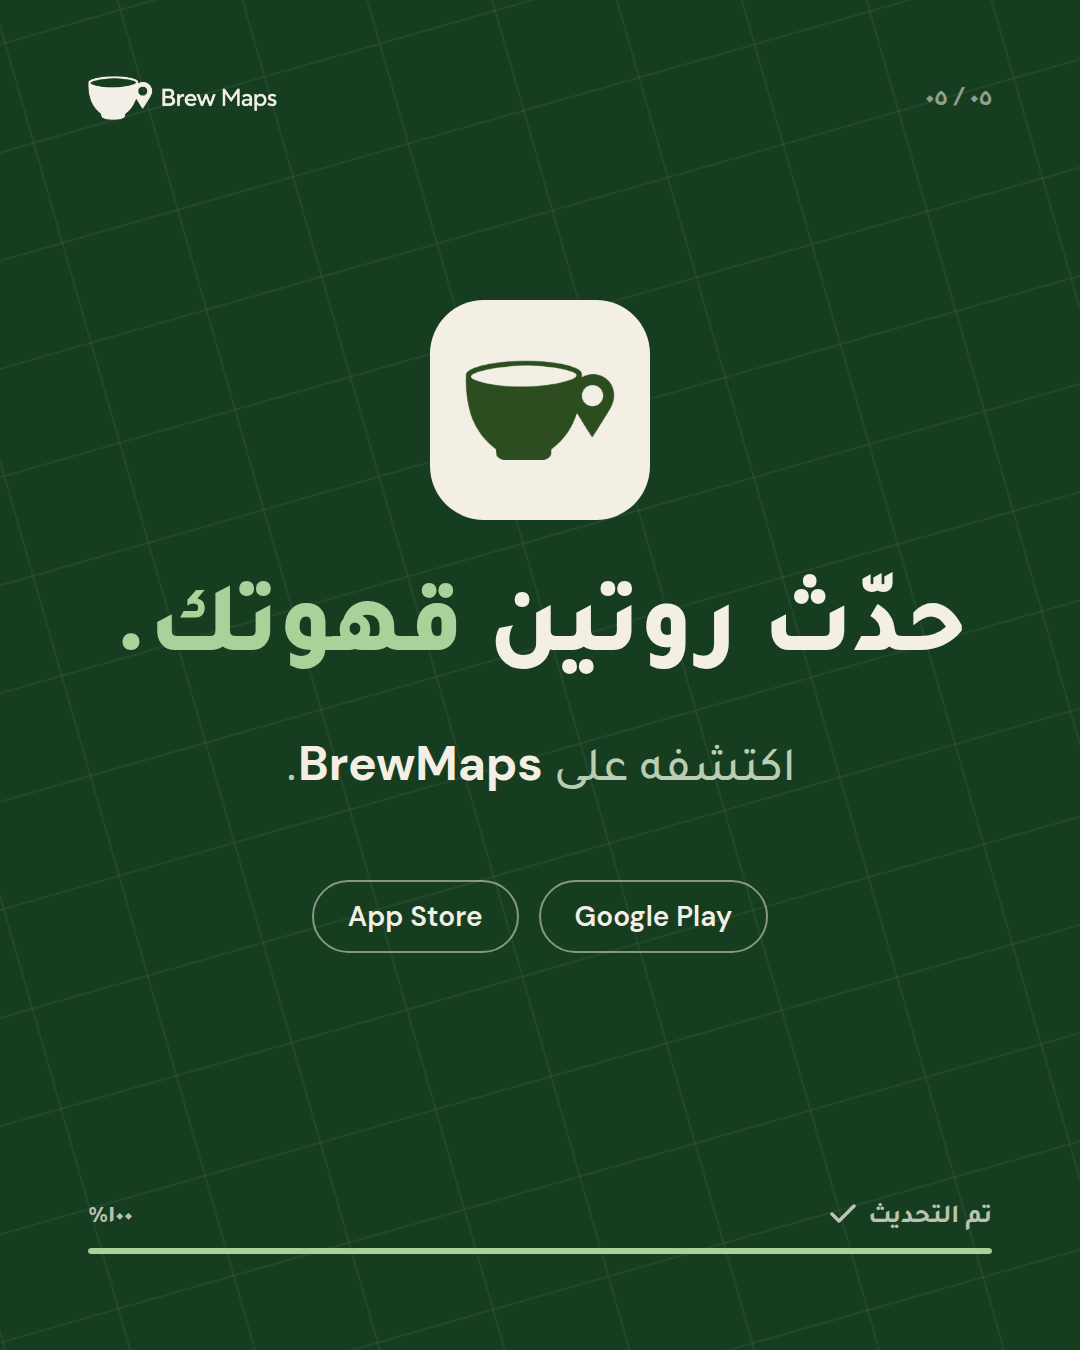
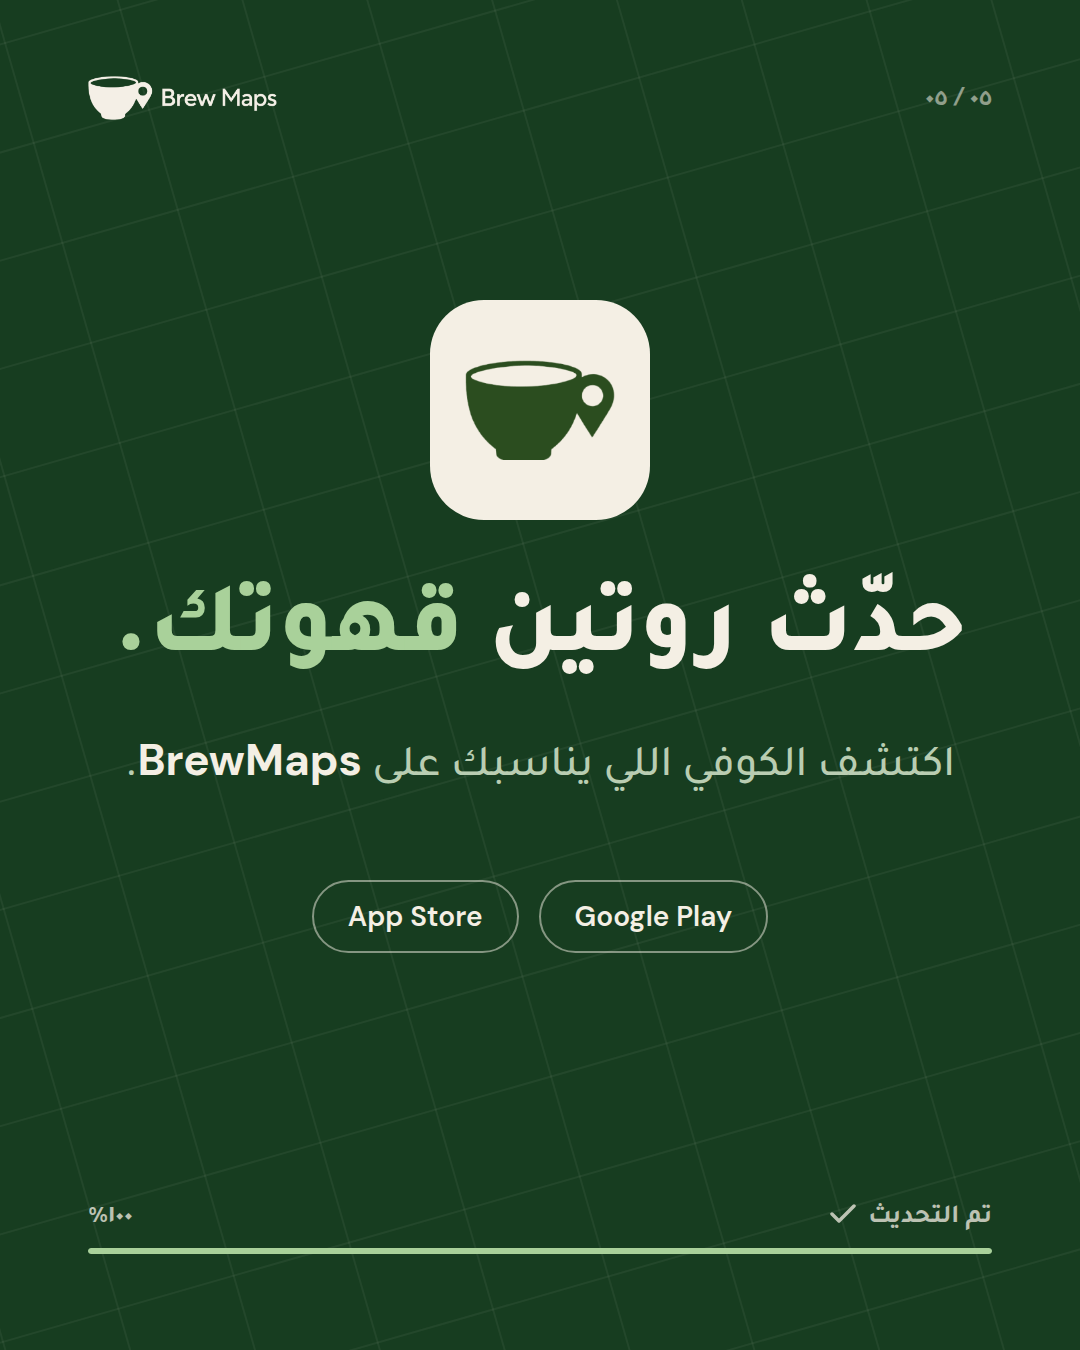
روتين قهوتك: shorter slide 4 headline, personalized slide 5 line
Claude-Session: https://claude.ai/code/session_01UCKVHF8Bj15Neb29ir5cAN

Changed region(s): [[0.1222, 0.5289, 0.8861, 0.5911]]

diff --git a/marketing/posts/coffee-routine-update/slides.html b/marketing/posts/coffee-routine-update/slides.html
@@ -99,9 +99,9 @@ const S = {
       </div>`,
 
   // 4 · PAYOFF: closer than you think
-  4: `<div class="h" style="top:190px; font-size:68px; white-space:nowrap;">يمكن كوفيك المفضل الجاي…<br><span class="em">أقرب مما تتوقع.</span></div>
-      <div class="sub" style="top:368px; font-size:40px;"><span class="latin" style="font-weight:700">BrewMaps</span> يلقى لك الكوفي اللي <span class="em" style="font-weight:800">يناسب ذوقك.</span></div>
-      <svg style="position:absolute; top:490px; left:var(--M);" width="904" height="600" viewBox="0 0 904 600">
+  4: `<div class="h" style="top:190px; font-size:84px; white-space:nowrap;">يمكن كوفيك المفضل…<br><span class="em">أقرب مما تتوقع.</span></div>
+      <div class="sub" style="top:398px; font-size:40px;"><span class="latin" style="font-weight:700">BrewMaps</span> يلقى لك الكوفي اللي <span class="em" style="font-weight:800">يناسب ذوقك.</span></div>
+      <svg style="position:absolute; top:510px; left:var(--M);" width="904" height="600" viewBox="0 0 904 600">
         <defs><clipPath id="c4"><rect width="904" height="600" rx="36"/></clipPath></defs>
         <g clip-path="url(#c4)">
           <rect width="904" height="600" fill="#EFEEE7"/>
@@ -120,7 +120,7 @@ const S = {
           </g>
         </g>
       </svg>
-      <div style="position:absolute; top:690px; left:130px; width:380px; background:#fff; border:1.5px solid var(--line); border-radius:26px; padding:20px 22px 18px;">
+      <div style="position:absolute; top:710px; left:130px; width:380px; background:#fff; border:1.5px solid var(--line); border-radius:26px; padding:20px 22px 18px;">
       <div style="display:flex; gap:18px; align-items:center; direction:ltr; font-family:'DM Sans';">
         <span style="width:74px; height:74px; border-radius:18px; background:var(--sage); display:grid; place-items:center; flex:none;">
           <svg width="44" height="44" viewBox="-32 -32 64 64"><path d="M-24 -18 H24 L6 10 H-6 Z" fill="none" stroke="#173D20" stroke-width="4.5" stroke-linejoin="round"/><path d="M-16 20 H16" stroke="#173D20" stroke-width="4.5" stroke-linecap="round"/><path d="M-6 10 V20 M6 10 V20" stroke="#173D20" stroke-width="4.5"/></svg></span>
@@ -134,7 +134,7 @@ const S = {
   5: `<div style="position:absolute; top:300px; left:0; right:0; display:flex; justify-content:center;">
         <span style="width:220px; height:220px; border-radius:54px; background:var(--cream); display:grid; place-items:center;"><img src="img/mark-green.png" style="width:150px"></span></div>
       <div class="h" style="top:580px; text-align:center; font-size:100px; white-space:nowrap;">حدّث روتين <span class="em">قهوتك.</span></div>
-      <div class="sub" style="top:730px; text-align:center; font-size:48px;">اكتشفه على <span class="latin" style="font-weight:700; color:var(--cream)">BrewMaps</span>.</div>
+      <div class="sub" style="top:730px; text-align:center; font-size:44px;">اكتشف الكوفي اللي يناسبك على <span class="latin" style="font-weight:700; color:var(--cream)">BrewMaps</span>.</div>
       <div style="position:absolute; top:880px; left:0; right:0; display:flex; justify-content:center; gap:20px; direction:ltr; font-family:'DM Sans'; font-weight:600; font-size:28px;">
         <span style="border:2px solid rgba(244,239,228,.5); border-radius:999px; padding:16px 34px;">App Store</span>
         <span style="border:2px solid rgba(244,239,228,.5); border-radius:999px; padding:16px 34px;">Google Play</span></div>`,

diff --git a/marketing/posts/coffee-routine-update/README.md b/marketing/posts/coffee-routine-update/README.md
@@ -9,7 +9,8 @@ System
 - The update installs as you swipe: a bar at the bottom fills 20 → 100% ("جاري التحديث…" → "تم التحديث").
 - One grid: 88px margins, logo top-left, slide number top-right, headline zone, visual zone, bar at the bottom.
 - Slide 3's area tiles use the real areas and café counts from the app's Browse by area screen (Jumeirah 24,
-  Al Quoz 29, City Walk 12, JBR 8). Slide 4 carries the personalization: "BrewMaps يلقى لك الكوفي اللي يناسب ذوقك.",
+  Al Quoz 29, City Walk 12, JBR 8). Slide 4 headline: "يمكن كوفيك المفضل… أقرب مما تتوقع."; slide 5: "اكتشف الكوفي اللي يناسبك على BrewMaps."
+  Slide 4 carries the personalization: "BrewMaps يلقى لك الكوفي اللي يناسب ذوقك.",
   match % on the pins and "يناسب ذوقك ٩٢٪" on the V60 card (★4.9 · 600 m), after the app's own "Matches your taste"
   and match-% badges. The numbers are illustrative.
 
